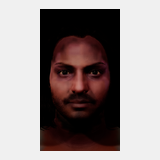
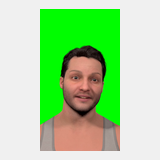
Show actual current native appearance and rendered Character in README
Replace obsolete photo-textured examples with the current native-skin preview and frame zero decoded from the latest generated video. Verify the shared Blueprint and retained eight-revision Character ancestry, preserve the reused fitting output, and correct the misleading single-run caption and provenance.

Copilot-Session: eafc4bf7-11d2-487f-8bef-a954d3cb0200

diff --git a/README.md b/README.md
@@ -77,10 +77,11 @@ of the internal `head_reconstruction`, `metahuman` and `pipelines` package names
 
 | Photograph | Head-only input | Fitted mesh | Surface appearance | Native Character |
 |---|---|---|---|---|
-| ![Photograph](docs/images/pipeline/portrait.png) | ![Head-only crop](docs/images/pipeline/cutout.png) | ![Neutral mesh](docs/images/pipeline/clay.png) | ![Surface appearance](docs/images/pipeline/appearance.png) | ![Editable native Character](docs/images/pipeline/native-appearance.png) |
+| ![Photograph](docs/images/pipeline/portrait.png) | ![Head-only crop](docs/images/pipeline/cutout.png) | ![Neutral mesh](docs/images/pipeline/clay.png) | ![Native skin appearance](docs/images/pipeline/appearance.png) | ![Rendered native Character](docs/images/pipeline/native-appearance.png) |
 
-The fitted mesh, surface appearance and native Character come from the same
-photo-to-character run. These illustrate formats rather than a likeness guarantee.
+The mesh is the retained fitting output. Surface appearance shows the native-skin
+preview; the native Character is a frame from the rendered video. These are
+separate stages, not a likeness guarantee.
 [Image provenance](docs/images/pipeline/provenance.json) records their sources.
 
 ## Configuration and output
